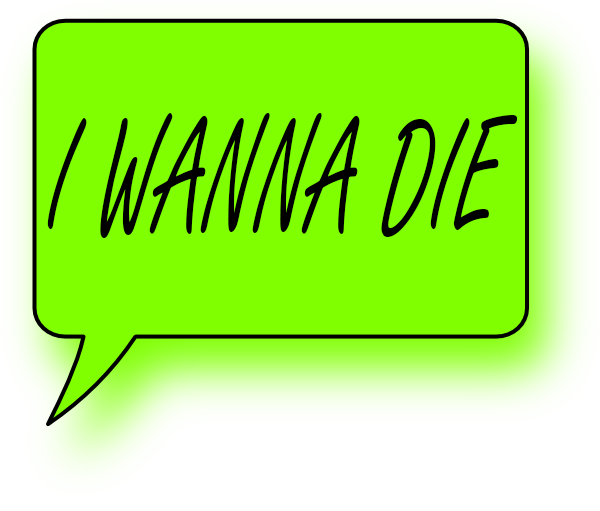
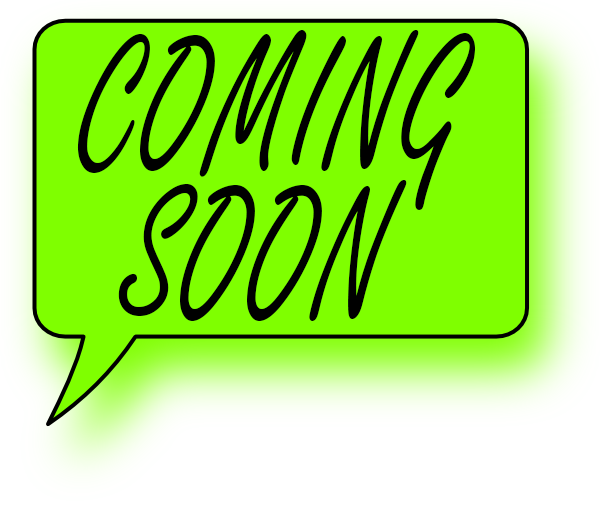
Demo Page and srcs

Changed region(s): [[0.06, 0.0587, 0.87, 0.6458]]

diff --git a/src/kmcss.css b/src/kmcss.css
@@ -4,6 +4,12 @@ html, body {
      padding:0;
      background-color: black 
 }
+h1 {
+    color: chartreuse;
+}
+p {
+    color:chartreuse;
+}
  div {
      position:relative;
      height: 100%;
@@ -16,7 +22,26 @@ html, body {
      right:0;
      bottom:0;
      margin:auto;
+     background: url("msg0.png") no-repeat center;
+
 }
+
+ div img:hover {
+     position:absolute;
+     top:0;
+     left:0;
+     right:0;
+     bottom:0;
+     margin:auto;
+     background: url("msg1.png") no-repeat center;
+
+}
+
+#poppy {
+    width: 400px;
+    height: 235px;
+}
+
  #wrapper {
      width: 960px;
      margin: 0 auto;
@@ -58,4 +83,8 @@ html, body {
 }
  #foot {
      text-align:center;
+}
+
+.god {
+    color: red
 }

diff --git a/index.html b/index.html
@@ -1,0 +1,16 @@
+<!DOCTYPE html PUBLIC "-//W3C//DTD XHTML 1.0 Transitional//EN" "http://www.w3.org/TR/xhtml1/DTD/xhtml1-transitional.dtd">
+<html xmlns="http://www.w3.org/1999/xhtml">
+
+<head>
+    <meta http-equiv="Content-Type" content="text/html; charset=utf-8" />
+    <title>I Wanna Die</title>
+    <link href="src/kmcss.css" rel="stylesheet" type="text/css" />
+    <link rel="shortcut icon" type="image/png" href="" />
+</head>
+
+<body>
+    <div class="msg" id="src">
+        <a href=""><img src=""/></a>
+    </div>
+</body>
+</html>
